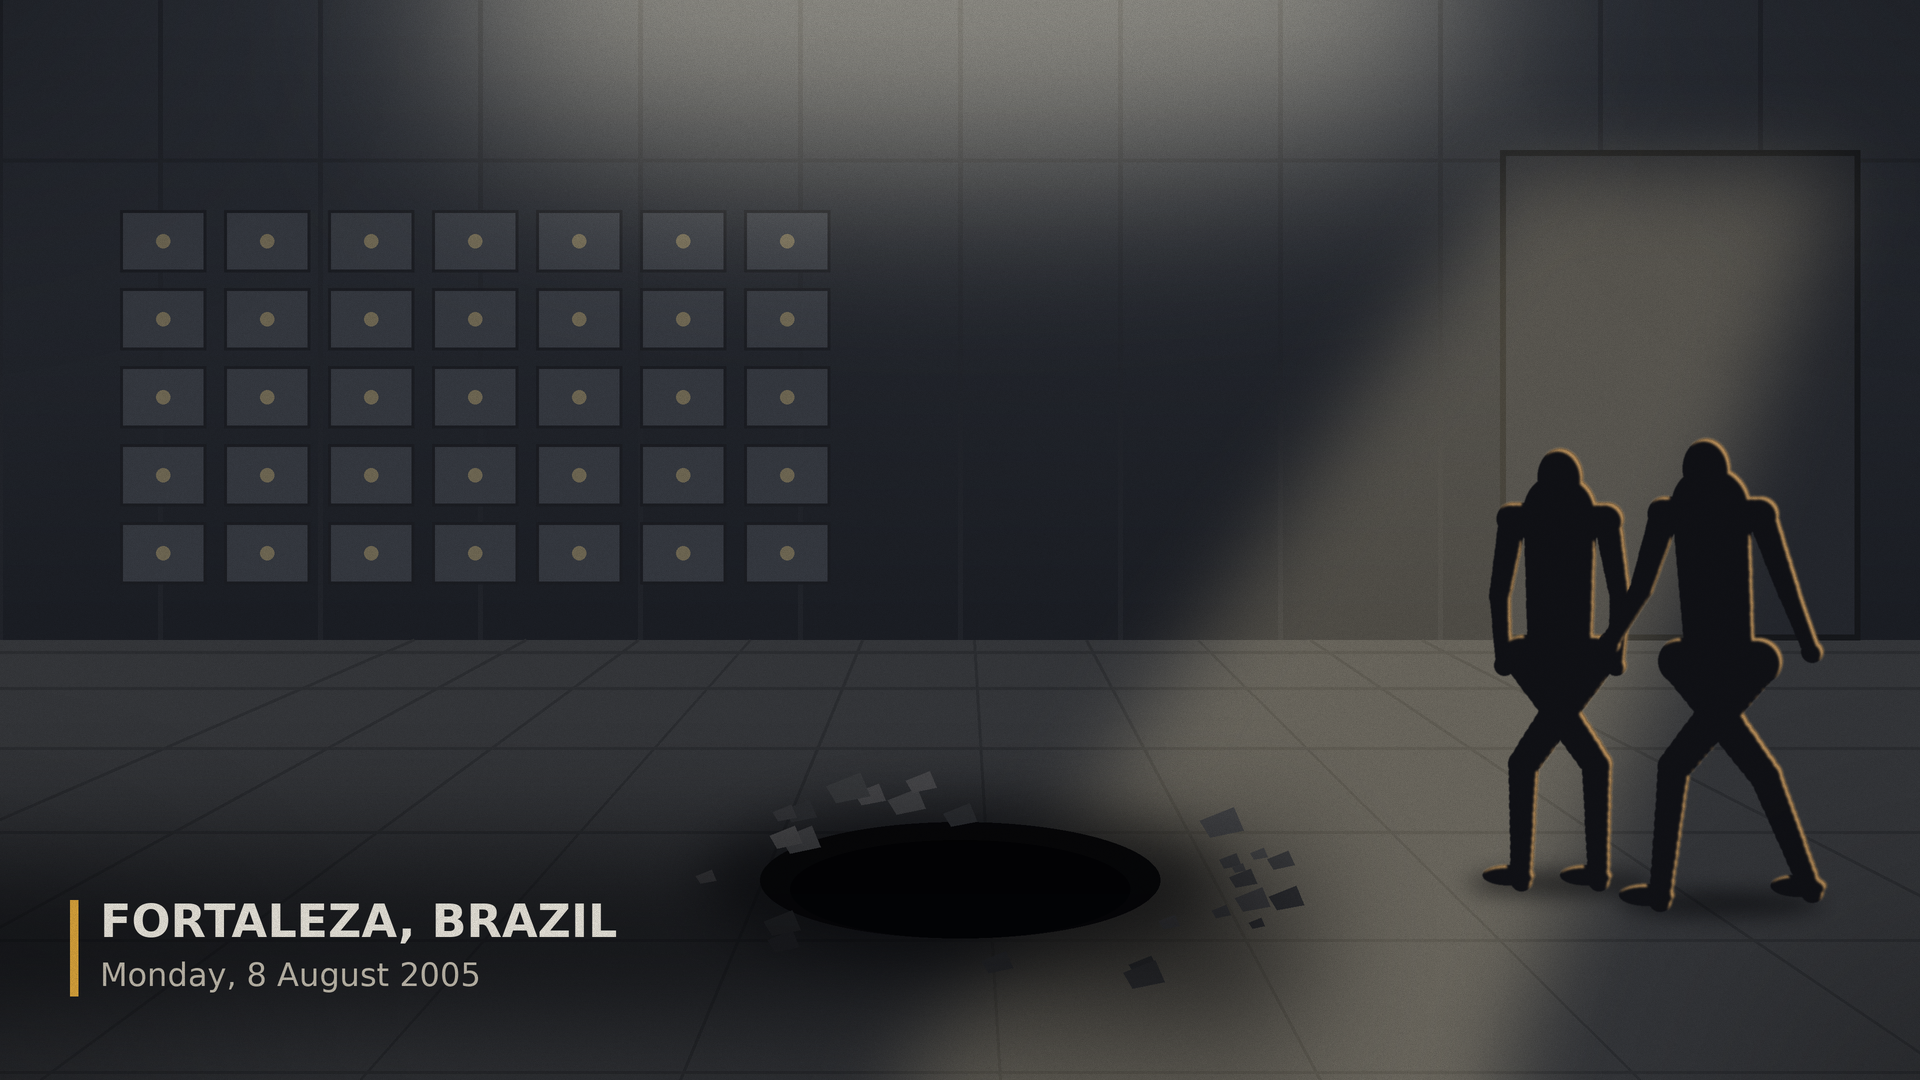
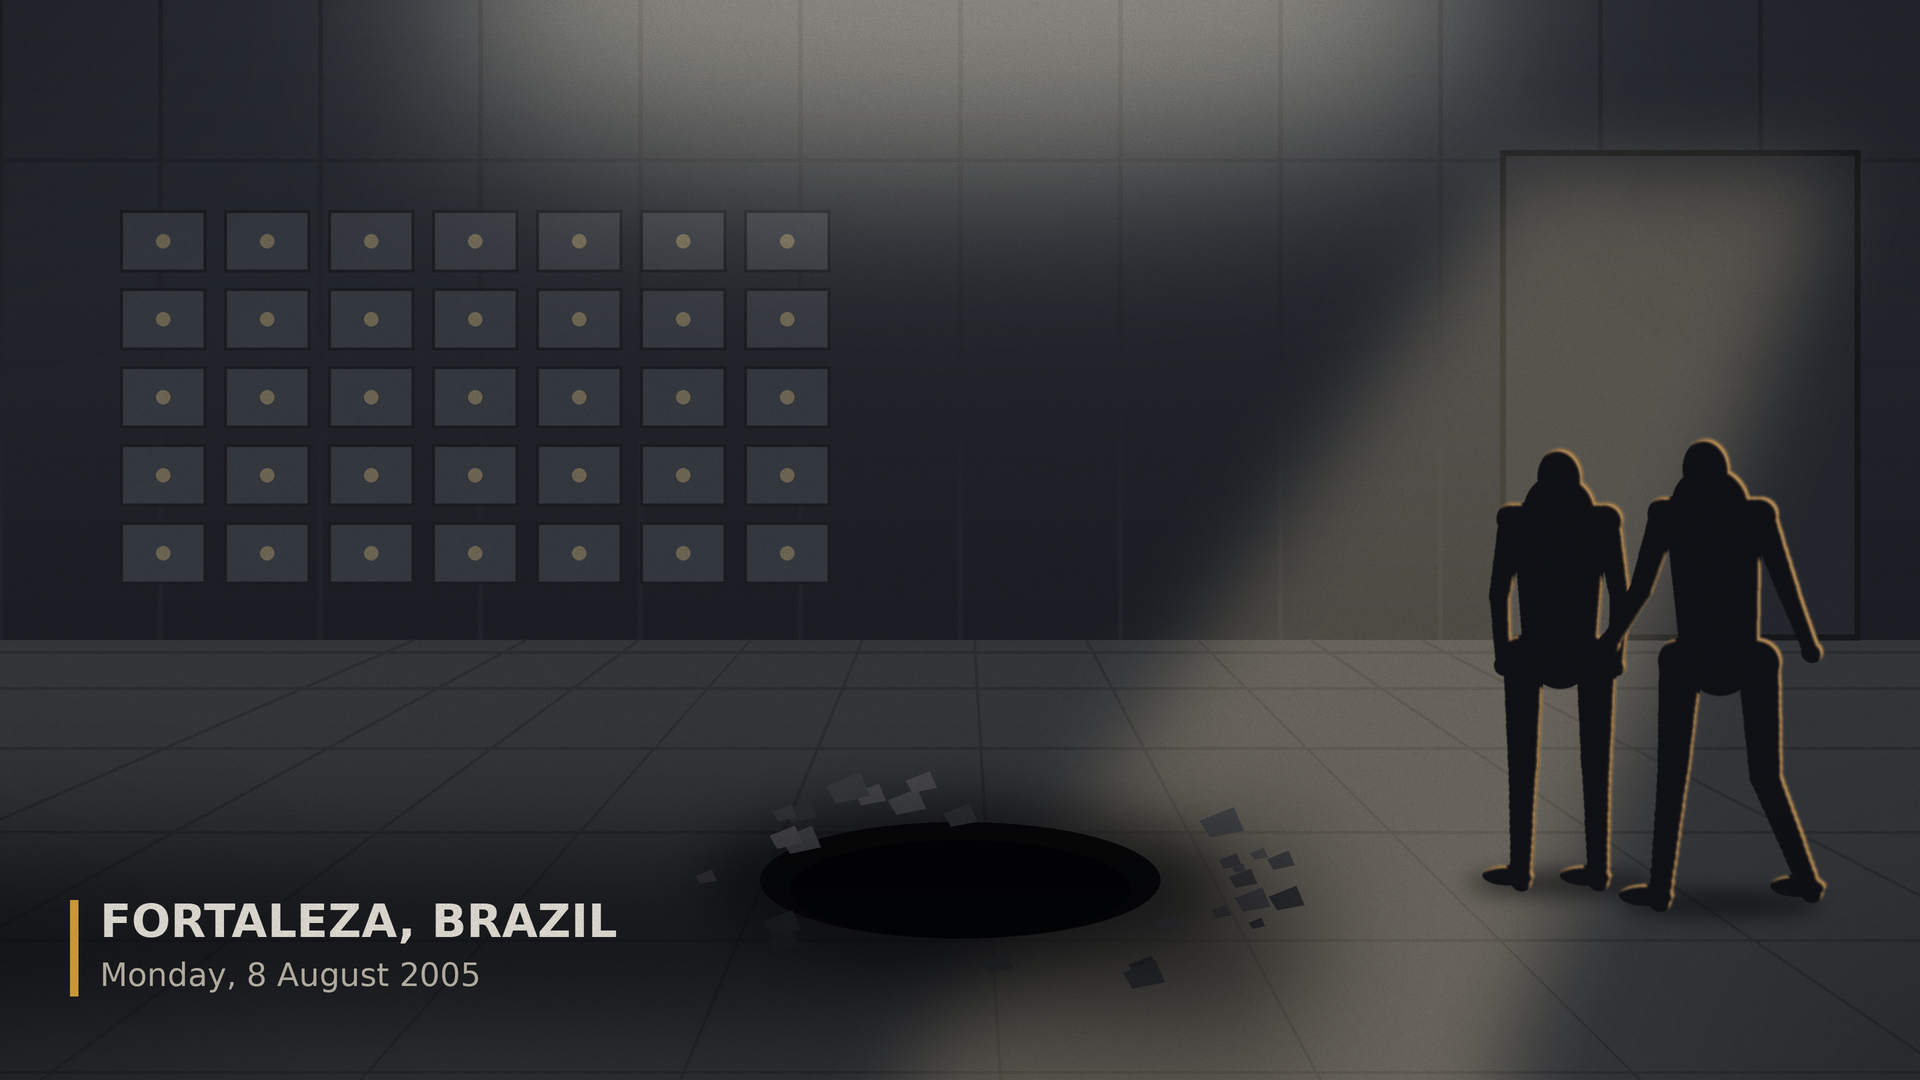
Fix mirrored figure legs
Claude-Session: https://claude.ai/code/session_01M31u486guU47PUdU315KWu

Changed region(s): [[0.7812, 0.6111, 0.9375, 0.7333], [0.7812, 0.4889, 0.875, 0.5806], [0.9062, 0.4889, 0.9375, 0.5806]]

diff --git a/kit/real.py b/kit/real.py
@@ -128,7 +128,7 @@ class Scene:
                 d.ellipse([p(cx - r), p(cy - r), p(cx + r), p(cy + r)], fill=255)
 
         hip, neck = j("hip"), j("neck")
-        hl, hr = (hip[0] - .085 * h, hip[1]), (hip[0] + .085 * h, hip[1])
+        hl, hr = (hip[0] - sx * .085 * h, hip[1]), (hip[0] + sx * .085 * h, hip[1])
         for k, f, hp in (("kL", "fL", hl), ("kR", "fR", hr)):
             cap_line(hp, j(k), .095, .072)
             cap_line(j(k), j(f), .07, .05)
